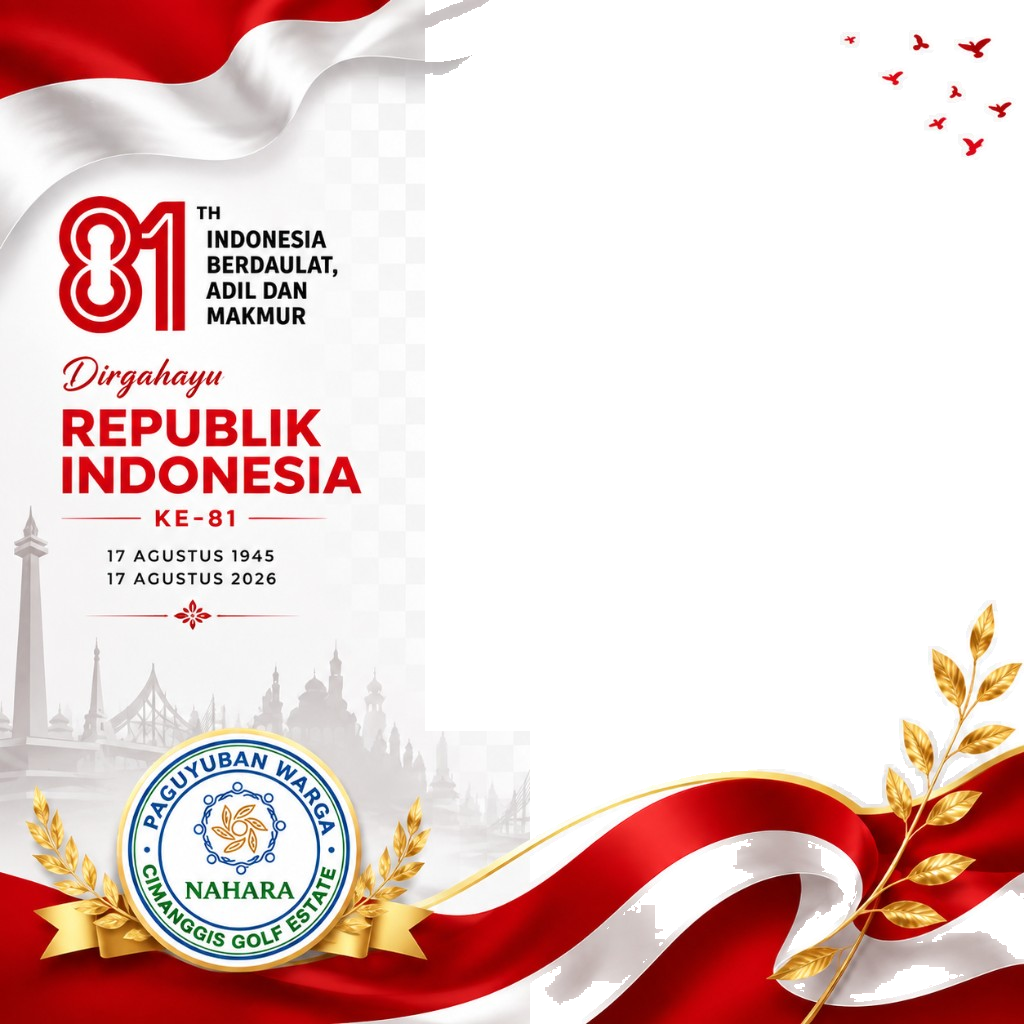
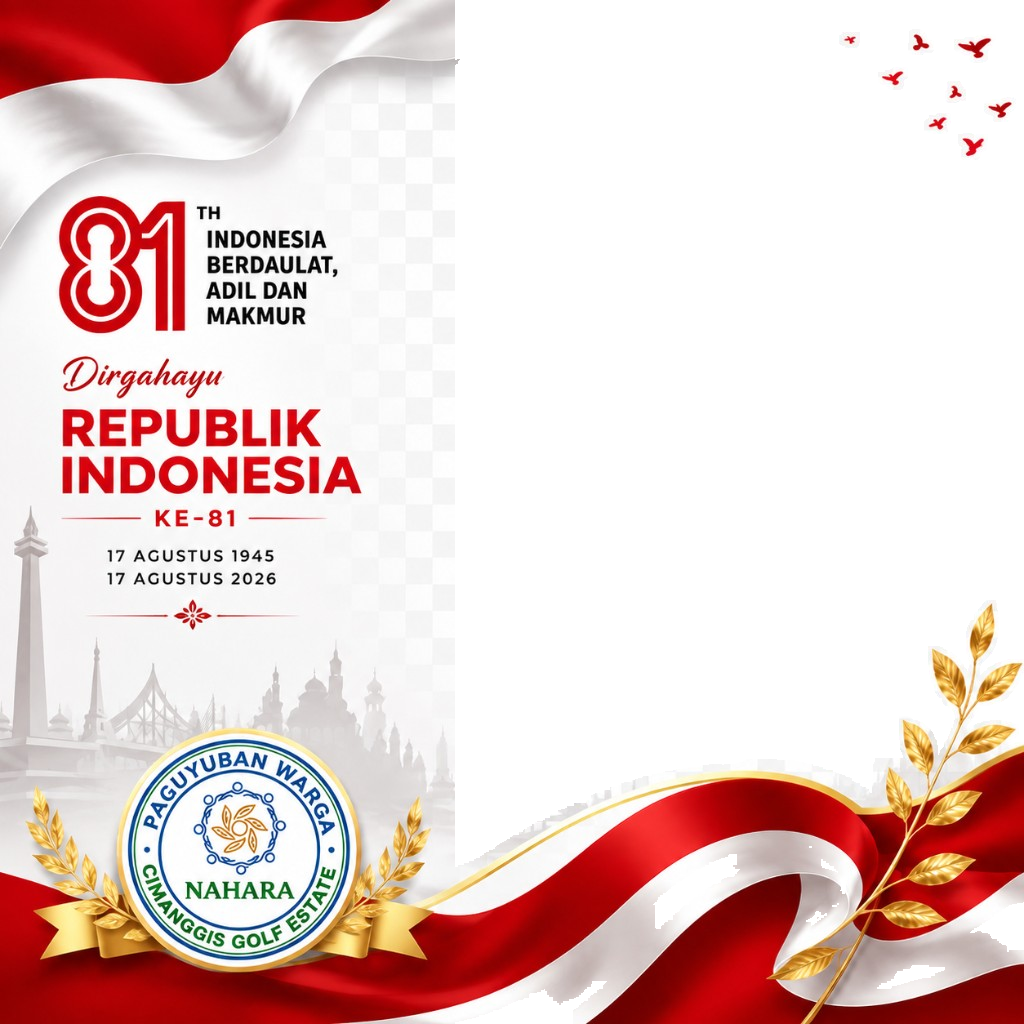
Refactor TwibbonMaker to utilize new circular frame design and improve image positioning. Update constants for twibbon dimensions and enhance user instructions for photo adjustments. Add new twibbon frame asset and JSON configuration for circle dimensions.

diff --git a/components/agustusan/TwibbonMaker.tsx b/components/agustusan/TwibbonMaker.tsx
@@ -9,9 +9,13 @@ import {
   ZoomIn,
   ZoomOut,
 } from "lucide-react";
-import { AGUSTUSAN_MEDIA } from "@/lib/constants/agustusan";
+import {
+  AGUSTUSAN_MEDIA,
+  TWIBBON_PHOTO_CIRCLE,
+} from "@/lib/constants/agustusan";
 
 const SIZE = 1024;
+const { cx: CIRCLE_CX, cy: CIRCLE_CY, r: CIRCLE_R } = TWIBBON_PHOTO_CIRCLE;
 
 function loadImage(src: string): Promise<HTMLImageElement> {
   return new Promise((resolve, reject) => {
@@ -52,18 +56,27 @@ export function TwibbonMaker({
     ctx.clearRect(0, 0, SIZE, SIZE);
     ctx.imageSmoothingEnabled = true;
     ctx.imageSmoothingQuality = "high";
-    ctx.fillStyle = "#e8e8e8";
+    ctx.fillStyle = "#ffffff";
     ctx.fillRect(0, 0, SIZE, SIZE);
 
     const photo = photoRef.current;
     if (photo) {
-      const base = Math.max(SIZE / photo.width, SIZE / photo.height);
+      // Cover-fit inside design circle (+small bleed supaya tidak ada celah di pinggir)
+      const diam = CIRCLE_R * 2;
+      const base = Math.max(diam / photo.width, diam / photo.height) * 1.08;
       const s = base * scale;
       const w = photo.width * s;
       const h = photo.height * s;
-      const x = (SIZE - w) / 2 + offset.x;
-      const y = (SIZE - h) / 2 + offset.y;
+      const x = CIRCLE_CX - w / 2 + offset.x;
+      const y = CIRCLE_CY - h / 2 + offset.y;
+
+      ctx.save();
+      ctx.beginPath();
+      ctx.arc(CIRCLE_CX, CIRCLE_CY, CIRCLE_R, 0, Math.PI * 2);
+      ctx.closePath();
+      ctx.clip();
       ctx.drawImage(photo, x, y, w, h);
+      ctx.restore();
     }
 
     ctx.drawImage(frame, 0, 0, SIZE, SIZE);
@@ -216,8 +229,8 @@ export function TwibbonMaker({
         />
         <p className="mt-2 text-center text-xs text-slate-500">
           {hasPhoto
-            ? "Geser foto untuk posisi. Pakai tombol zoom di bawah."
-            : "Unggah foto wajah/selfie untuk mengisi frame."}
+            ? "Geser / zoom supaya wajah pas di lingkaran."
+            : "Unggah foto wajah — nanti muncul di dalam lingkaran frame."}
         </p>
       </div>
 

diff --git a/lib/constants/agustusan.ts b/lib/constants/agustusan.ts
@@ -29,11 +29,18 @@ export const CONTEST_CATEGORY_LABELS: Record<string, string> = {
   umum: "Acara Umum",
 };
 
+/** Circle hole on twibbon-frame-circle.png (canvas coords, size 1024) */
+export const TWIBBON_PHOTO_CIRCLE = {
+  cx: 660,
+  cy: 406,
+  r: 364,
+} as const;
+
 export const AGUSTUSAN_MEDIA = {
   hero: "/assets/agustusan/hero-banner.png",
   video: "/assets/agustusan/teaser.mp4",
   videoPoster: "/assets/agustusan/nahara-flags-banner.png",
-  twibbonFrame: "/assets/agustusan/twibbon-frame-v3.png",
+  twibbonFrame: "/assets/agustusan/twibbon-frame-circle.png",
   gallery: [
     {
       src: "/assets/agustusan/nahara-flags-banner.png",
